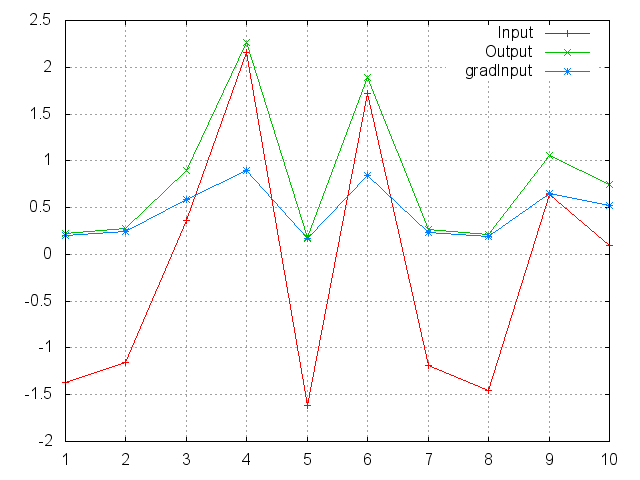
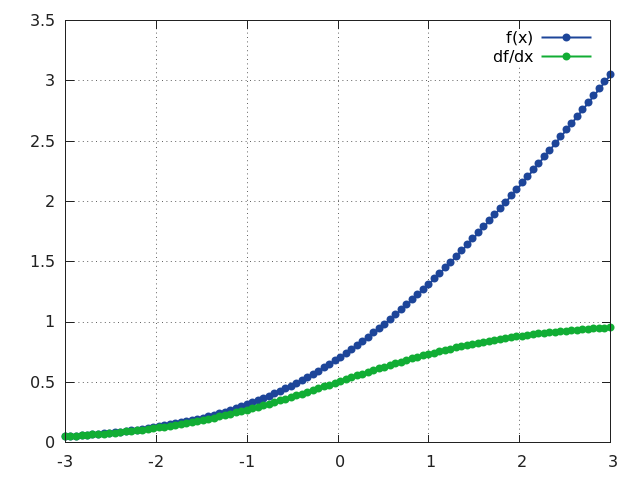
Replace plot of SoftPlus function
Created a replacement visualization of the SoftPlus function
for the docs that shows the function and its first derivative.

diff --git a/doc/transfer.md b/doc/transfer.md
@@ -127,17 +127,17 @@ gnuplot.grid(true)
 ### SoftPlus ###
 
 Applies the `SoftPlus` function to an n-dimensioanl input Tensor.
-Can be used to constrain the output of a machine to always be positive.
+`SoftPlus` is a smooth approximation to the [ReLU](#nn.ReLU) function and can be used to constrain the output of a machine to always be positive. For numerical stability the implementation reverts to the linear function for inputs above a certain value (20 by default).
 
 `SoftPlus` is defined as `f_i(x)` = `1/beta * log(1 + exp(beta * x_i))`.
 
 ```lua
-ii=torch.randn(10)
+ii=torch.linspace(-3,3)
 m=nn.SoftPlus()
 oo=m:forward(ii)
-go=torch.ones(10)
+go=torch.ones(100)
 gi=m:backward(ii,go)
-gnuplot.plot({'Input',ii,'+-'},{'Output',oo,'+-'},{'gradInput',gi,'+-'})
+gnuplot.plot({'f(x)',ii,oo,'+-'},{'df/dx',ii,gi,'+-'})
 gnuplot.grid(true)
 ```
 ![](image/softplus.png)
